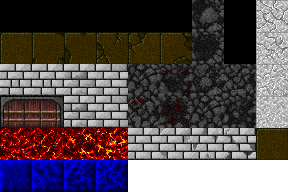
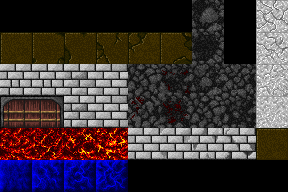
v0.2.2-alpha
Good fairly stable point to make a v0.2.2a step.

Small rework of mapOne and the Dungeony.png. Dungeony wasn't properly represtenting the blank tile.

Changed region(s): [[0.4375, 0.8125, 1.0, 1.0]]

diff --git a/src/main/java/org/dionthorn/Render.java b/src/main/java/org/dionthorn/Render.java
@@ -21,8 +21,8 @@ public class Render {
     public static int[] menuNewGameBounds;
     public static int[] anchorUL = new int[2]; // the XY of tile that would be in the upper left of view area
     private static final Font smallFont = new Font("Arial", 12);
-    private static final Font mediumFont = new Font("Arial", 22);
-    private static final Font largeFont = new Font("Arial", 28);
+    private static final Font mediumFont = new Font("Arial", 28);
+    private static final Font largeFont = new Font("Arial", 32);
 
     public static void render(Run app, DevMenu devMenu, GraphicsContext gc) {
 
@@ -449,7 +449,8 @@ public class Render {
             gc.drawImage(paperBg, 0, Run.SCREEN_MAP_HEIGHT);
             gc.setFont(smallFont);
             String[] path = app.getGameState().getCurrentMap().getPATH().split("\\\\");
-            gc.fillText(path[path.length - 1], Run.SCREEN_WIDTH>>4, Run.SCREEN_MAP_HEIGHT + (Run.SCREEN_MAP_HEIGHT>>4));
+            gc.setFont(mediumFont);
+            gc.fillText("Selected Map: " + path[path.length - 1], Run.SCREEN_WIDTH>>4, Run.SCREEN_MAP_HEIGHT + (Run.SCREEN_MAP_HEIGHT>>4));
             gc.fillText("Press Enter to Load The Selected Map", Run.SCREEN_WIDTH>>4,
                     Run.SCREEN_MAP_HEIGHT + (Run.SCREEN_MAP_HEIGHT>>2)
             );

diff --git a/src/main/java/org/dionthorn/TileSet.java b/src/main/java/org/dionthorn/TileSet.java
@@ -146,6 +146,7 @@ public class TileSet {
     }
 
     public void setMetaFireID(int tileID, boolean remove) {
+        metaFire.trimToSize();
         boolean found = false;
         if(!remove) {
             for(int i: metaFire) {
@@ -187,7 +188,7 @@ public class TileSet {
         } else {
             int target = 0;
             for(int index=0; index<metaImpassable.size(); index++) {
-                if(metaFire.get(index) == tileID) {
+                if(metaImpassable.get(index) == tileID) {
                     found = true;
                     target = index;
                     break;

diff --git a/src/main/java/org/dionthorn/Run.java b/src/main/java/org/dionthorn/Run.java
@@ -22,7 +22,7 @@ import java.util.logging.Logger;
  */
 public class Run extends Application {
 
-    public static final String PROGRAM_VERSION = "v0.2.1a";
+    public static final String PROGRAM_VERSION = "v0.2.2a";
     public static Logger programLogger = Logger.getLogger("programLogger");
     public static String GAME_DATA_PATH = "";
     public static String GAME_ART_PATH = "";
